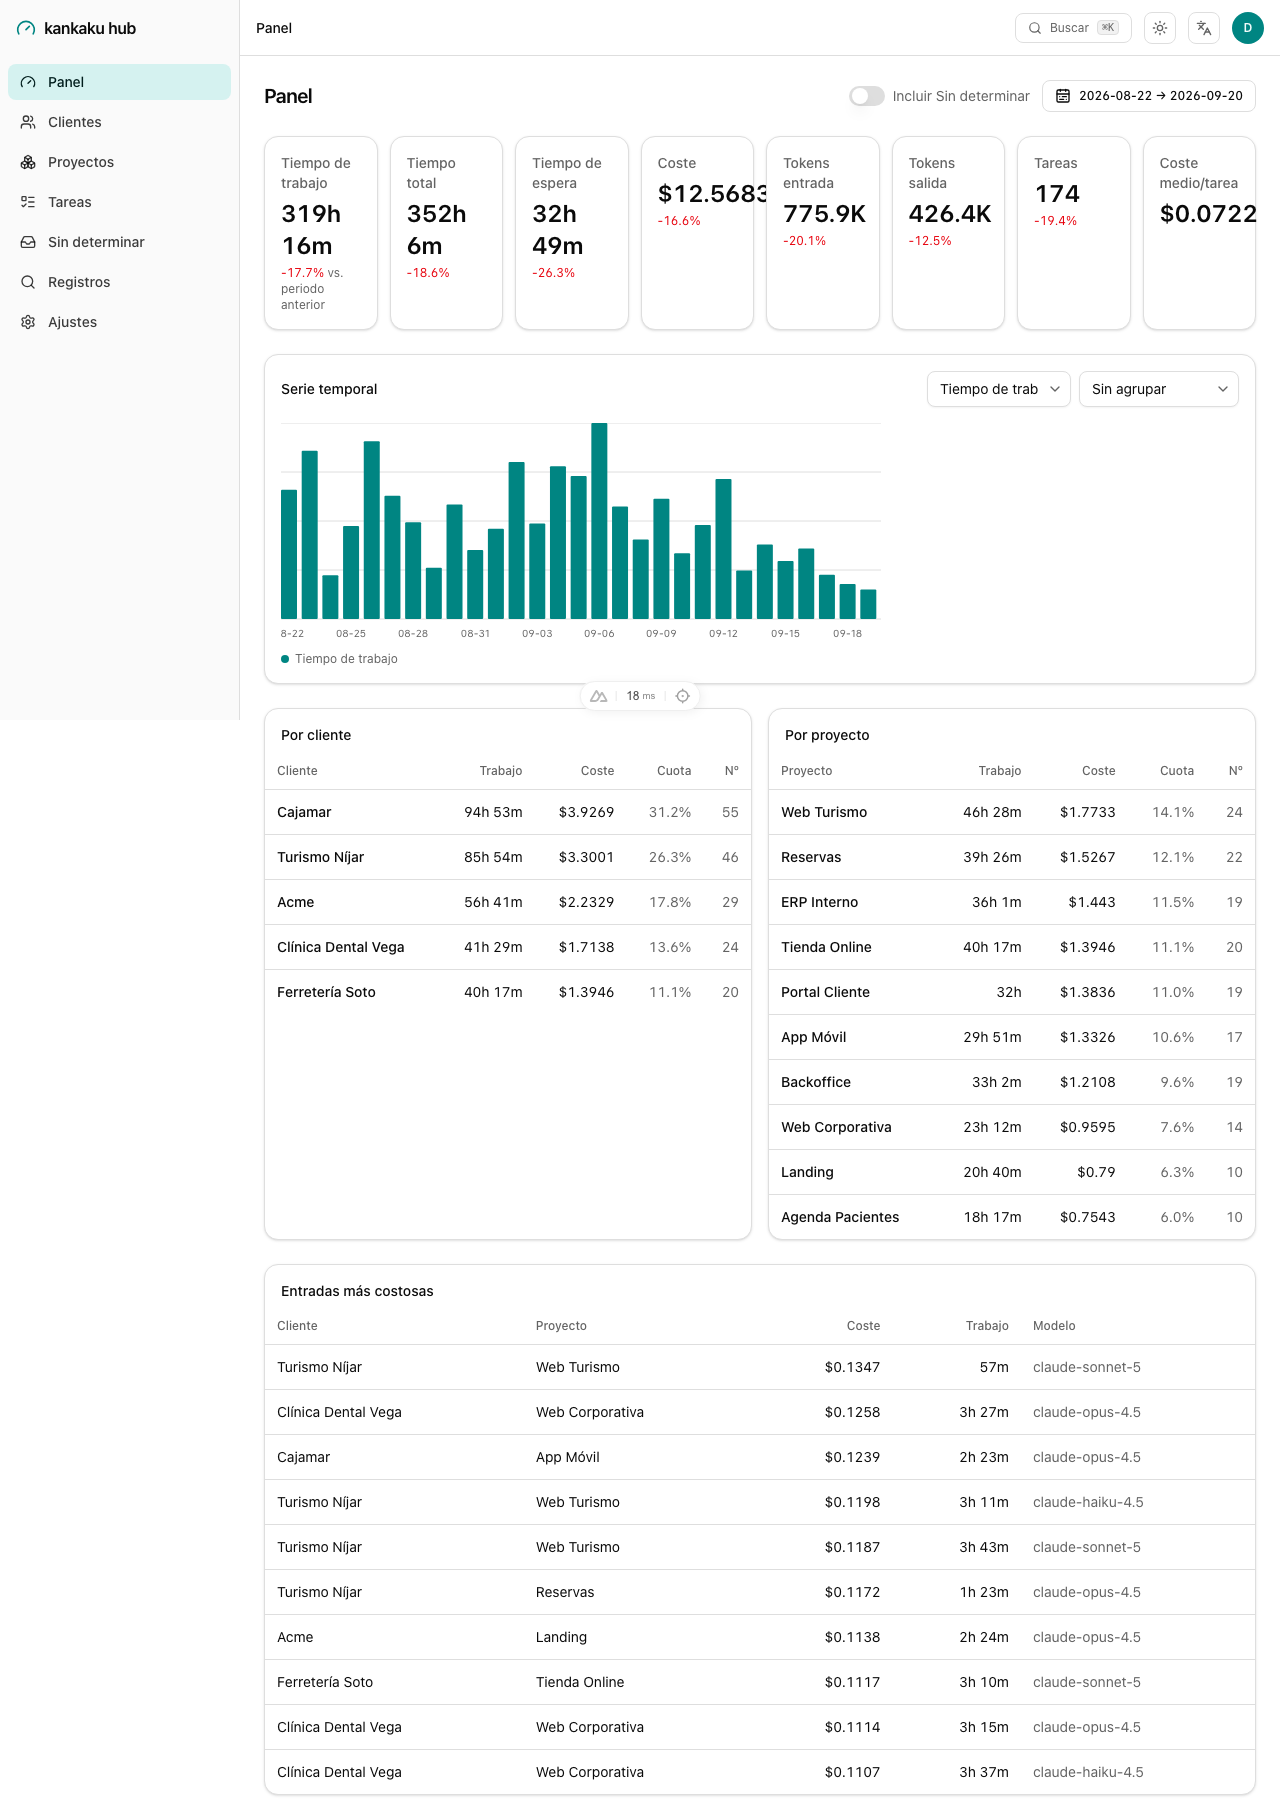
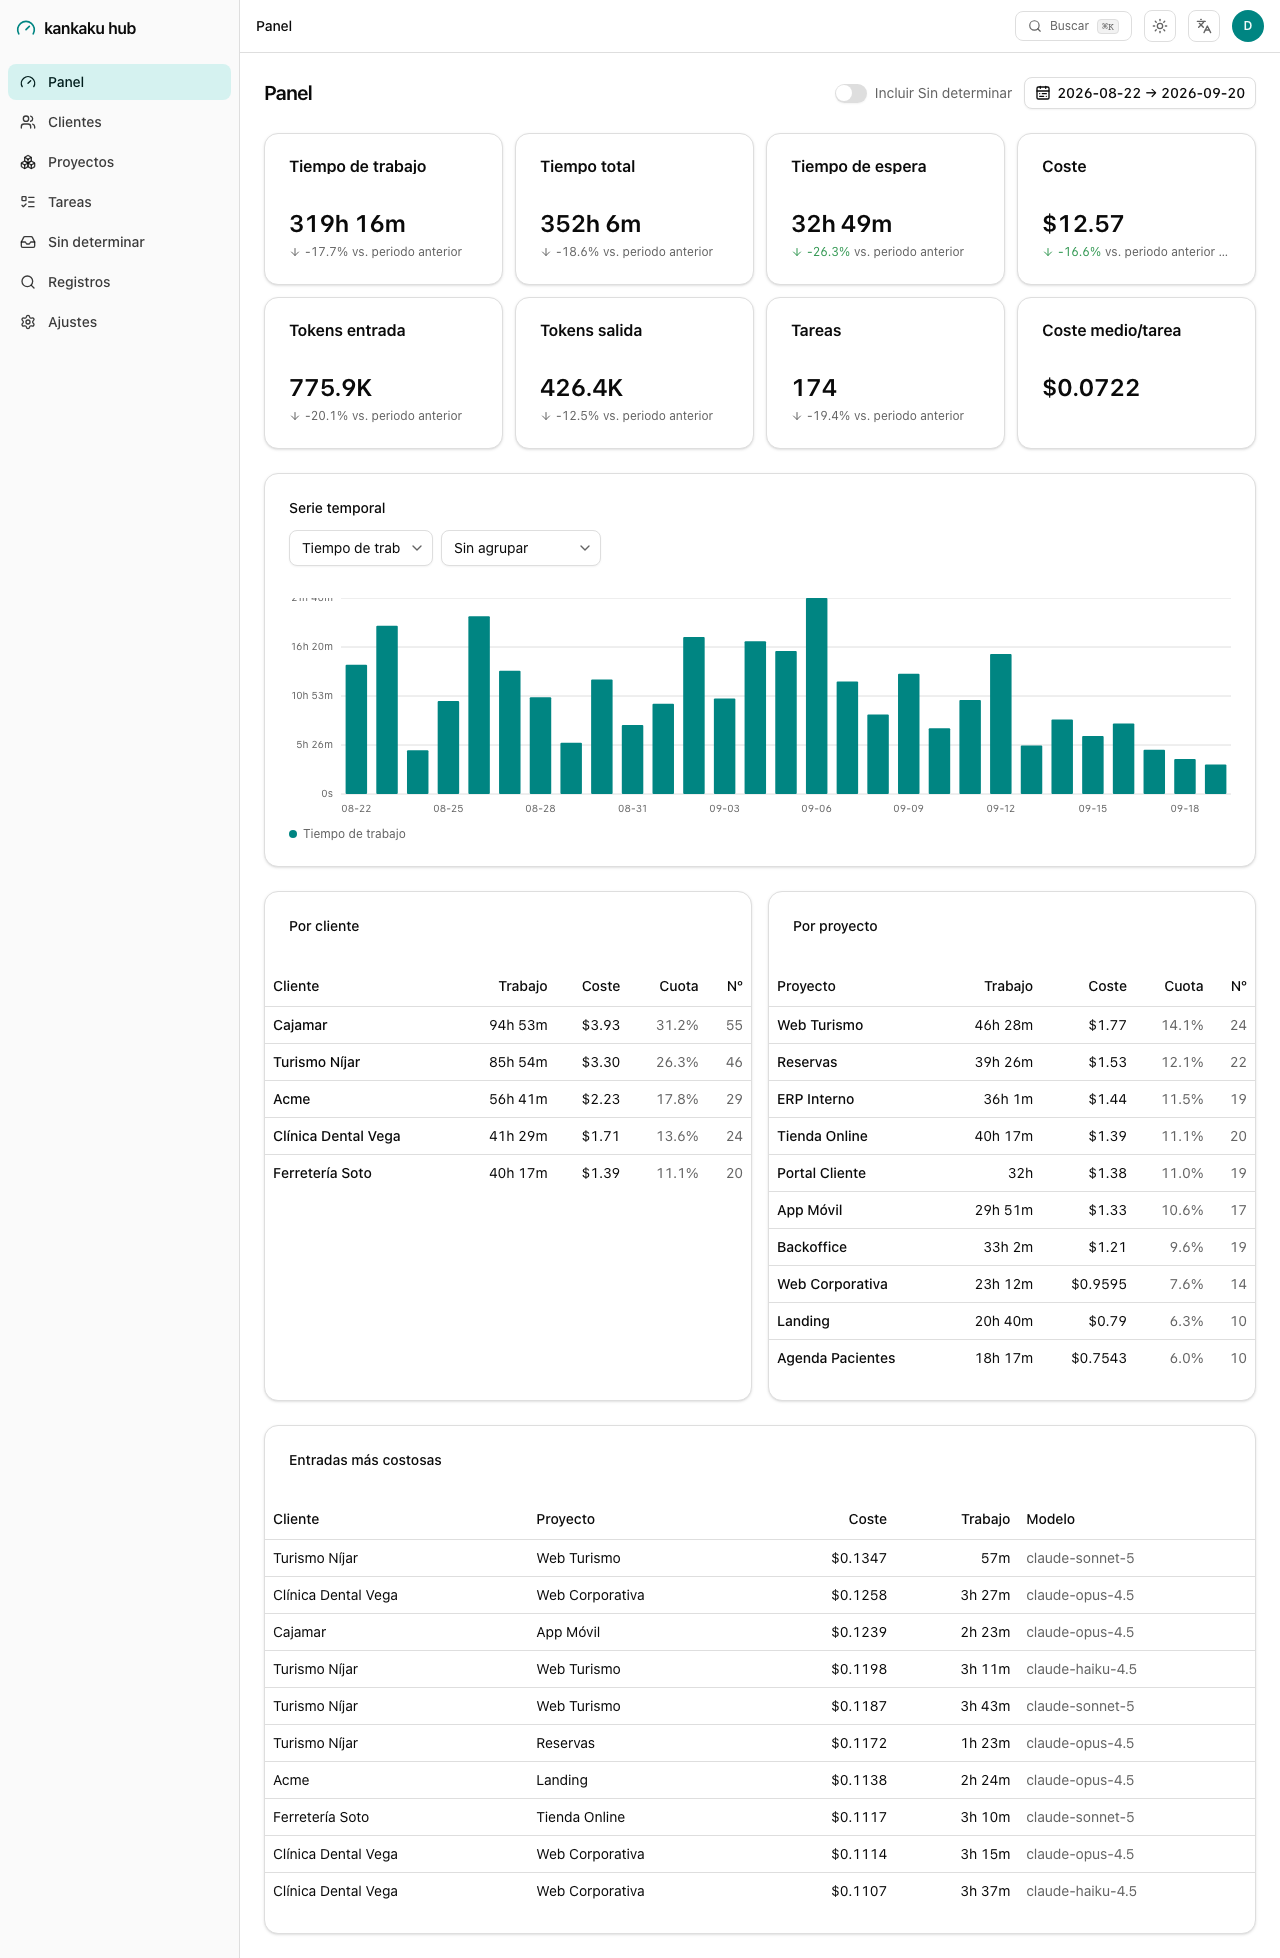
test(web): extend e2e coverage for the polish pass and refresh screenshots
- e2e/helpers.ts: shared login/setTheme/shoot helpers factored out of
  smoke.spec.ts. shoot() now temporarily grows the viewport to the
  content area's scrollHeight before capturing, instead of relying on
  Playwright's fullPage (which measures document scroll height - once
  the shell scrolls internally, fullPage would only capture one
  viewport of a long page). At the grown viewport, the sidebar's h-dvh
  naturally stretches to match, so it still renders full-height.
- e2e/polish.spec.ts: KPI values never overflow their card
  (scrollWidth <= clientWidth) at 1440px and 390px; the chart SVG fills
  >90% of its container; the unassigned queue shows Spanish headers;
  a full bulk-assignment round trip against 2 disposable task_entries
  created via the PocketBase REST API (cleaned up in a finally block,
  verified 0 leftover rows afterwards) checking the group disappears
  without a reload, the toast names the count and destination, and the
  dashboard's "By client" breakdown grows by exactly 2 after an SPA
  navigation; theme defaults to dark and both light/system switches work.
- smoke.spec.ts: added mobile-width (390px) dashboard screenshots.
- Regenerated all docs/screenshots/*.png from the production build
  (pnpm generate, served by PocketBase on 8090 - no devtools badge).

diff --git a/web/e2e/polish.spec.ts b/web/e2e/polish.spec.ts
@@ -1,0 +1,195 @@
+import { expect, test } from '@playwright/test'
+import { login, OWNER_EMAIL, OWNER_PASSWORD, setTheme } from './helpers'
+
+/**
+ * Targeted regression checks for the visual/UX polish pass (see
+ * ESTADO.md "Pase de pulido"). Kept separate from e2e/smoke.spec.ts so a
+ * failure here points straight at a specific defect class instead of a
+ * generic smoke failure.
+ */
+
+interface ClientRecord { id: string, name: string, unassigned: boolean, active: boolean }
+
+async function apiLogin(request: import('@playwright/test').APIRequestContext) {
+  const res = await request.post('/api/collections/users/auth-with-password', {
+    data: { identity: OWNER_EMAIL, password: OWNER_PASSWORD },
+  })
+  expect(res.ok(), await res.text()).toBeTruthy()
+  const body = await res.json()
+  return body.token as string
+}
+
+async function findClients(request: import('@playwright/test').APIRequestContext, token: string) {
+  const res = await request.get('/api/collections/clients/records?perPage=200', {
+    headers: { Authorization: token },
+  })
+  expect(res.ok()).toBeTruthy()
+  const body = await res.json()
+  const items = body.items as ClientRecord[]
+  const unassigned = items.find(c => c.unassigned)
+  const target = items.find(c => !c.unassigned && c.active)
+  if (!unassigned || !target) throw new Error('Seed data must include an unassigned client and at least one active client')
+  return { unassigned, target }
+}
+
+test.describe('KPI cards never clip their value', () => {
+  test('at desktop and mobile widths', async ({ page }) => {
+    await login(page)
+    await page.goto('/')
+    await page.waitForLoadState('networkidle')
+
+    for (const size of [{ width: 1440, height: 900 }, { width: 390, height: 844 }]) {
+      await page.setViewportSize(size)
+      await page.waitForTimeout(200)
+      const values = page.locator('[data-testid="kpi-value"]')
+      const count = await values.count()
+      expect(count).toBeGreaterThan(0)
+      for (let i = 0; i < count; i++) {
+        const el = values.nth(i)
+        const overflow = await el.evaluate(node => node.scrollWidth - node.clientWidth)
+        expect(overflow, `KPI value #${i} at ${size.width}px must not overflow its card`).toBeLessThanOrEqual(1)
+      }
+    }
+  })
+})
+
+test.describe('time-series chart fills its container', () => {
+  test('svg renders at more than 90% of the card width', async ({ page }) => {
+    await login(page)
+    await page.goto('/')
+    await page.waitForLoadState('networkidle')
+
+    const container = page.locator('[data-testid="chart-container"]')
+    const svg = page.locator('[data-testid="chart-svg"]')
+    await expect(svg).toBeVisible()
+
+    const containerBox = await container.boundingBox()
+    const svgBox = await svg.boundingBox()
+    expect(containerBox && svgBox).toBeTruthy()
+    const ratio = svgBox!.width / containerBox!.width
+    expect(ratio).toBeGreaterThan(0.9)
+  })
+})
+
+test.describe('unassigned queue is translated in Spanish', () => {
+  test('shows Trabajo/Coste, not Work/Cost', async ({ page }) => {
+    await login(page)
+    await page.goto('/unassigned')
+    await page.waitForLoadState('networkidle')
+
+    const header = page.locator('table thead')
+    await expect(header).toContainText('Trabajo')
+    await expect(header).toContainText('Coste')
+    await expect(header).not.toContainText('Work')
+    await expect(header).not.toContainText(/\bCost\b/)
+  })
+})
+
+test.describe('bulk assignment end-to-end', () => {
+  test('assigns a disposable unassigned group, updates the queue and dashboard without a full reload', async ({ page, request }) => {
+    test.setTimeout(60_000)
+    const token = await apiLogin(request)
+    const { unassigned, target } = await findClients(request, token)
+
+    const runId = `e2e-${Date.now()}`
+    const legacyLabel = `E2E Group ${runId}`
+    const startedAt = new Date().toISOString().replace('T', ' ').slice(0, 19) + '.000Z'
+    const createdIds: string[] = []
+
+    // Two disposable task_entries rows pointed at "Sin determinar", so the
+    // bulk-assign flow has a real, isolated group to work on without
+    // touching the seeded demo data.
+    for (let i = 0; i < 2; i++) {
+      const res = await request.post('/api/collections/task_entries/records', {
+        headers: { Authorization: token },
+        data: {
+          task_id: `${runId}-${i}`,
+          client: unassigned.id,
+          project: '',
+          task: '',
+          started_at: startedAt,
+          ended_at: startedAt,
+          wall_ms: 60_000,
+          waiting_ms: 0,
+          work_ms: 60_000,
+          input: 100,
+          output: 100,
+          cache_read: 0,
+          cache_write: 0,
+          cost: 0.01,
+          status: 'completed',
+          session_id: `${runId}-session`,
+          session_name: '',
+          machine: 'e2e',
+          model: 'e2e-model',
+          prompt: '',
+          legacy_client_label: legacyLabel,
+          repo_project: '',
+          schema: 1,
+        },
+      })
+      expect(res.ok(), await res.text()).toBeTruthy()
+      const created = await res.json()
+      createdIds.push(created.id)
+    }
+
+    try {
+      // Baseline: how many entries the target client already shows on the
+      // dashboard's default range, before assignment.
+      await login(page)
+      await page.goto('/')
+      await page.waitForLoadState('networkidle')
+      const clientRow = page.locator('[data-testid="breakdown-by-client"] table tbody tr', { hasText: target.name })
+      const baselineText = (await clientRow.count()) > 0 ? await clientRow.first().locator('td').last().innerText() : '0'
+      const baselineCount = Number.parseInt(baselineText, 10) || 0
+
+      await page.goto('/unassigned')
+      await page.waitForLoadState('networkidle')
+
+      const groupRow = page.locator('table tbody tr', { hasText: legacyLabel })
+      await expect(groupRow).toBeVisible()
+
+      await groupRow.getByRole('button', { name: 'Asignar grupo' }).click()
+
+      const dialog = page.locator('[role="dialog"]')
+      await expect(dialog).toBeVisible()
+      // The assign dialog has two native <select>s (client, then project) —
+      // the client one is first.
+      await dialog.locator('select').first().selectOption({ label: target.name })
+      await dialog.getByRole('button', { name: 'Asignar a' }).click()
+
+      // Toast confirms how many rows moved and where — no full page reload.
+      await expect(page.getByText(`2 registros movidos a ${target.name}.`)).toBeVisible({ timeout: 10_000 })
+      // The group must disappear from the queue without a reload.
+      await expect(groupRow).toHaveCount(0)
+
+      // Dashboard reflects the reassignment on next navigation (SPA nav,
+      // not a hard reload) — target client's count grew by exactly 2.
+      await page.goto('/')
+      await page.waitForLoadState('networkidle')
+      const afterRow = page.locator('[data-testid="breakdown-by-client"] table tbody tr', { hasText: target.name })
+      await expect(afterRow).toBeVisible()
+      const afterText = await afterRow.first().locator('td').last().innerText()
+      expect(Number.parseInt(afterText, 10)).toBe(baselineCount + 2)
+    }
+    finally {
+      // Clean up regardless of outcome — never leave e2e rows in the
+      // seeded demo data.
+      for (const id of createdIds) {
+        await request.delete(`/api/collections/task_entries/records/${id}`, { headers: { Authorization: token } })
+      }
+    }
+  })
+})
+
+test.describe('theme', () => {
+  test('defaults to dark, switches to light and to system', async ({ page }) => {
+    await page.goto('/login')
+    await expect(page.locator('html')).toHaveClass('dark')
+    await login(page)
+    await setTheme(page, 'light')
+    await expect(page.locator('html')).toHaveClass('light')
+    await setTheme(page, 'system')
+    await expect(page.locator('html')).toHaveClass(/dark|light/)
+  })
+})

diff --git a/web/e2e/smoke.spec.ts b/web/e2e/smoke.spec.ts
@@ -1,6 +1,5 @@
-import path from 'node:path'
-import { fileURLToPath } from 'node:url'
-import { expect, type Page, test } from '@playwright/test'
+import { expect, test } from '@playwright/test'
+import { login, setTheme, shoot } from './helpers'
 
 /**
  * End-to-end smoke test against a running instance (dev server or the
@@ -8,35 +7,9 @@ import { expect, type Page, test } from '@playwright/test'
  * owner's required path: log in, land on a non-empty dashboard, switch
  * theme, open the unassigned queue, open a project — and saves
  * screenshots of the main screens in both themes to docs/screenshots/
- * (see ESTADO.md).
+ * (see ESTADO.md). See also e2e/polish.spec.ts for the targeted
+ * regression checks from the visual/UX polish pass.
  */
-
-const screenshotsDir = path.join(fileURLToPath(new URL('.', import.meta.url)), '..', 'docs', 'screenshots')
-
-const OWNER_EMAIL = 'david@kankaku.local'
-const OWNER_PASSWORD = 'kankaku-dev-owner'
-
-async function login(page: Page) {
-  await page.goto('/login')
-  await page.fill('#email', OWNER_EMAIL)
-  await page.fill('#password', OWNER_PASSWORD)
-  await page.click('button[type=submit]')
-  await page.waitForURL('/')
-}
-
-async function setTheme(page: Page, theme: 'dark' | 'light') {
-  await page.evaluate((t) => {
-    localStorage.setItem('kankaku-color-mode', t)
-  }, theme)
-  await page.reload()
-  await page.waitForLoadState('networkidle')
-  await expect(page.locator('html')).toHaveClass(theme)
-}
-
-async function shoot(page: Page, name: string) {
-  await page.waitForTimeout(300)
-  await page.screenshot({ path: path.join(screenshotsDir, `${name}.png`), fullPage: true })
-}
 
 test('dashboard shows non-zero KPIs after login', async ({ page }) => {
   await login(page)
@@ -51,7 +24,7 @@ test('dashboard shows non-zero KPIs after login', async ({ page }) => {
   expect(bodyText).toMatch(/\$\d+\.\d{2}/)
 })
 
-test('theme switches to light and back to dark, no flash of wrong theme on load', async ({ page }) => {
+test('theme defaults to dark, switches to light, back to dark, and to system', async ({ page }) => {
   await page.goto('/login')
   // Fresh profile: default theme must be dark before any interaction.
   await expect(page.locator('html')).toHaveClass('dark')
@@ -59,6 +32,9 @@ test('theme switches to light and back to dark, no flash of wrong theme on load'
   await login(page)
   await setTheme(page, 'light')
   await setTheme(page, 'dark')
+  // "System" must not throw and must apply *some* resolved theme class.
+  await setTheme(page, 'system')
+  await expect(page.locator('html')).toHaveClass(/dark|light/)
 })
 
 test('opens the unassigned queue', async ({ page }) => {
@@ -108,5 +84,18 @@ test('captures screenshots of the main screens in both themes', async ({ page })
     await page.goto('/login')
     await page.waitForLoadState('networkidle')
     await shoot(page, `login-${theme}`)
+  }
+})
+
+test('captures mobile-width dashboard screenshots (both themes)', async ({ page }) => {
+  test.setTimeout(60_000)
+  await page.setViewportSize({ width: 390, height: 844 })
+  await login(page)
+
+  for (const theme of ['dark', 'light'] as const) {
+    await setTheme(page, theme)
+    await page.goto('/')
+    await page.waitForLoadState('networkidle')
+    await shoot(page, `dashboard-mobile-${theme}`)
   }
 })

diff --git a/web/e2e/helpers.ts b/web/e2e/helpers.ts
@@ -1,0 +1,58 @@
+import path from 'node:path'
+import { fileURLToPath } from 'node:url'
+import type { Page } from '@playwright/test'
+import { expect } from '@playwright/test'
+
+export const screenshotsDir = path.join(fileURLToPath(new URL('.', import.meta.url)), '..', 'docs', 'screenshots')
+
+export const OWNER_EMAIL = 'david@kankaku.local'
+export const OWNER_PASSWORD = 'kankaku-dev-owner'
+
+export async function login(page: Page) {
+  await page.goto('/login')
+  await page.fill('#email', OWNER_EMAIL)
+  await page.fill('#password', OWNER_PASSWORD)
+  await page.click('button[type=submit]')
+  await page.waitForURL('/')
+}
+
+export async function setTheme(page: Page, theme: 'dark' | 'light' | 'system') {
+  await page.evaluate((t) => {
+    localStorage.setItem('kankaku-color-mode', t)
+  }, theme)
+  await page.reload()
+  await page.waitForLoadState('networkidle')
+  if (theme !== 'system') {
+    await expect(page.locator('html')).toHaveClass(theme)
+  }
+}
+
+/**
+ * Screenshots the current page for docs/screenshots/. The app shell now
+ * scrolls internally (sticky, full-height sidebar next to a scrolling
+ * content area — see app/layouts/default.vue), which fixes the real bug
+ * where a fixed-position sidebar stopped at one viewport height on long
+ * pages. That same fix means Playwright's `fullPage: true` (which
+ * measures the *document's* scroll height, not an inner scroll
+ * container's) would now only capture one viewport of content. So
+ * instead: measure the content area's actual scrollHeight and grow the
+ * viewport to fit it before shooting, then restore the viewport. At the
+ * grown viewport height the `h-dvh` sidebar naturally stretches to match,
+ * so it still renders full-height in the screenshot.
+ */
+export async function shoot(page: Page, name: string) {
+  await page.waitForTimeout(300)
+  const original = page.viewportSize()
+  const contentHeight = await page.evaluate(() => {
+    const el = document.querySelector('[data-testid="scroll-area"]')
+    return el ? el.scrollHeight : document.body.scrollHeight
+  })
+  if (original && contentHeight > original.height) {
+    await page.setViewportSize({ width: original.width, height: Math.min(contentHeight + 20, 10_000) })
+    await page.waitForTimeout(200)
+  }
+  await page.screenshot({ path: path.join(screenshotsDir, `${name}.png`) })
+  if (original) {
+    await page.setViewportSize(original)
+  }
+}
